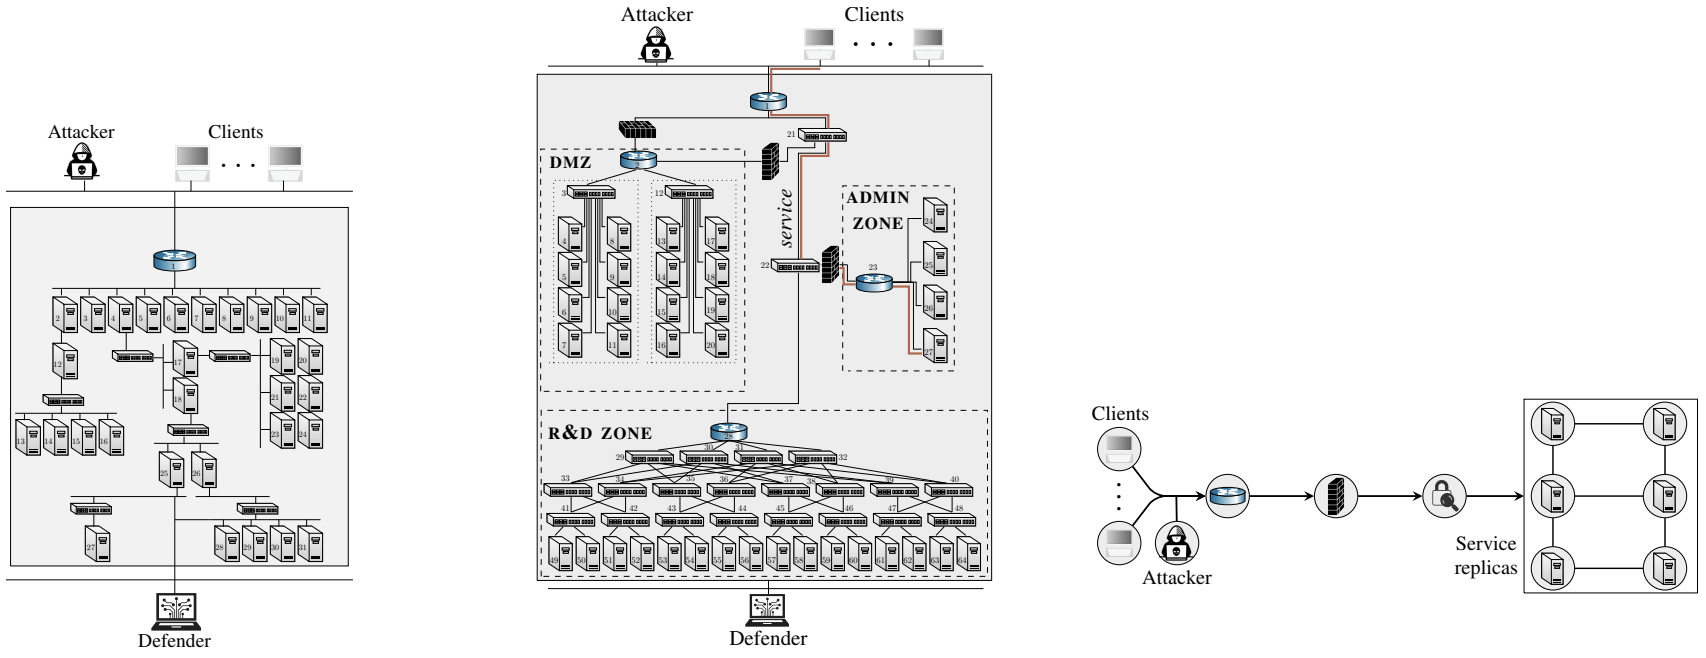
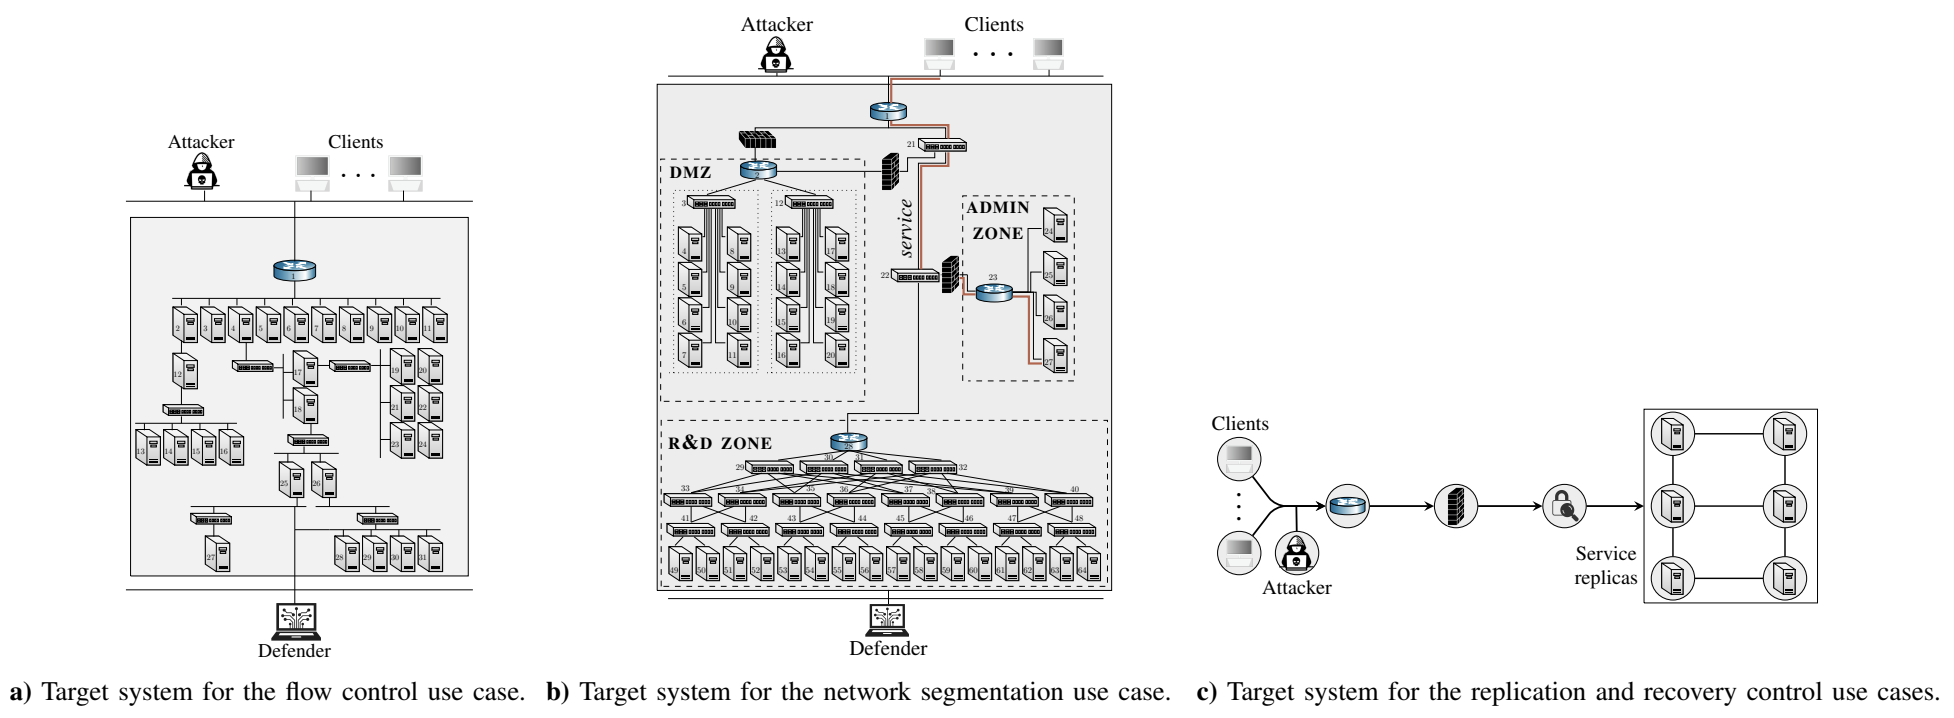
add thesis digest draft [WIP]

diff --git a/_posts/2026-01-31-thesis-digest.md b/_posts/2026-01-31-thesis-digest.md
@@ -188,7 +188,7 @@ The evaluation results are summarized in Fig. 6. The red and blue curves represe
 
 ![Fig. 6](/assets/thesis_digest_6.png "Convergence curves for the different use cases. The red curves relate to the performance in the simulations and the blue curves relate to the performance in the digital twins. Curves show the mean value from evaluations with 3 random seeds; shaded areas indicate standard deviations. The x-axes indicate the training time in simulation. The top row relates to Markov decision processes. The bottom row relates to game-theoretic models.")
 
-*Fig. 6: Convergence curves for the different use cases. The red curves relate to the performance in the simulations and the blue curves relate to the performance in the digital twins. Curves show the mean value from evaluations with $3$ random seeds; shaded areas indicate standard deviations. The x-axes indicate the training time in simulation. The top row relates to Markov decision processes. The bottom row relates to game-theoretic models.*
+*Fig. 6: Convergence curves for the different use cases. The red curves relate to the performance in the simulations and the blue curves relate to the performance in the digital twins. Curves show the mean value from evaluations with 3 random seeds; shaded areas indicate standard deviations. The x-axes indicate the training time in simulation. The top row relates to Markov decision processes. The bottom row relates to game-theoretic models.*
 
 Although the learned response strategies, as expected, perform slightly better on the simulator than on the digital twin, we are encouraged by the fact that the curves of the digital twin are close to those of the simulator (cf. the blue and red curves). This small performance gap reflects inevitable discrepancies between the simulation model and the digital twin, such as differences in network latency, background processes, or unmodeled dynamics. However, it also indicates that the simulator provides a sufficiently accurate approximation for effective learning. Provided that the digital twin closely approximates the target system, the strategy is expected to maintain its performance once deployed on the target system.
 
